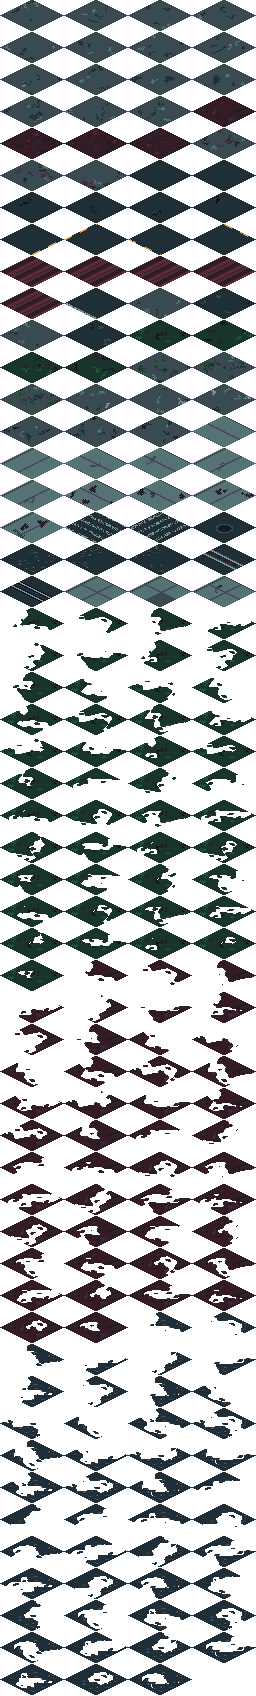
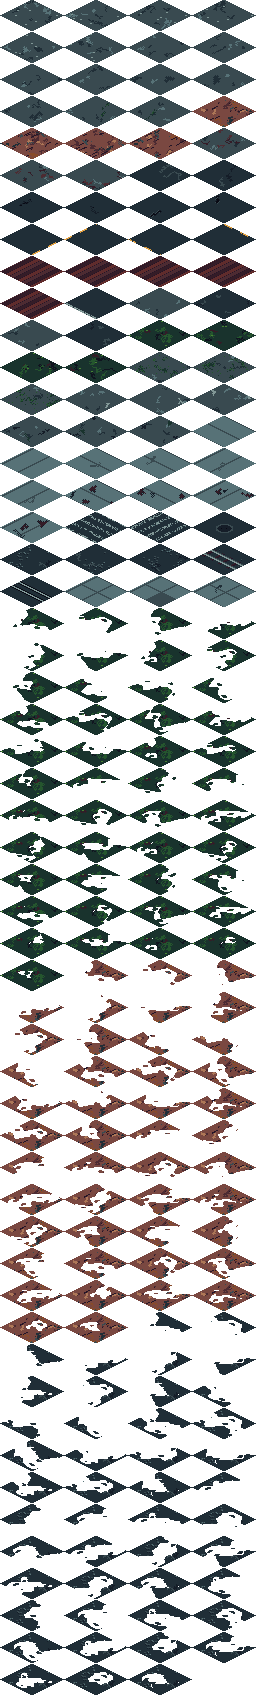
v0.6.58: the ground pass
User: "lets make make the ground look visually better, lets give it the
ground pass, make all of the dirt, grass, stone, roads, railroads, everything
on the ground. also the dirt looks more red than brown".

THE DIRT WAS BUILT ON THE RED RAMP. It based on 341c27 over 241527 - the
darkest values of Apollo's ORANGE and RED ramps - so however much of it you
laid down it came out wine, not earth. A colour only reads as brown when
GREEN leads BLUE, and both of those have blue above green. 7a4841 (122,72,65)
and ad7757 (173,119,87) do not. Darkening is then done by COVERAGE - more
shadow and more grey mud - because every Apollo brown below 7a4841 goes
blue-over-green and turns mauve again. Same "measure it, do not judge it"
lesson as the grey house in v0.6.54 that was painted in its own ground's
colours.

TONAL DRIFT ON EVERY SURFACE. Every floor was one flat base colour plus fine
per-pixel wear, so a large area read as a single value with dust on it - flat
at any distance, and no amount of extra speckle fixes that because speckle
averages back to the same tone. _tonal lays a few large low-contrast blotches
per tile instead, so across a field of tiles the ground drifts. Applied to
concrete, asphalt, forest floor, ballast and dirt. _aggregate adds small
stones as 2x1 pairs, never single pixels, so they read as aggregate in the
surface rather than noise on it.

Asphalt keeps NO speckle - smooth road surface is a standing user call. Its
[…]

diff --git a/tools/gen_art.py b/tools/gen_art.py
@@ -204,12 +204,51 @@ def _floor_base(c: Canvas, rng: random.Random, base, dark, lite,
     speckle(c, rng, region, [dark, lite], [p_dark, p_lite])
     return region
 
+
+def _tonal(c: Canvas, rng: random.Random, region: set, cols: list,
+           count: int = 2, lo: int = 14, hi: int = 30) -> None:
+    """LARGE, low-contrast blotches across a floor tile.
+
+    The ground pass's main move (user, 2026-08-05: "lets make make the ground
+    look visually better, lets give it the ground pass"). Every surface was
+    one flat base colour plus fine per-pixel wear, so a big area of concrete
+    or asphalt read as a single value with dust on it - flat at any distance,
+    and no amount of extra speckle fixes that, because speckle averages back
+    to the same tone.
+
+    These are patch-scale instead: a few blotches per tile, each a good
+    fraction of it, so ACROSS a field of tiles the ground has slow tonal
+    drift. Solid patches, which is what the no-dot-noise rule asks for.
+    """
+    if not region:
+        return
+    pts = sorted(region)
+    for _ in range(count):
+        col = cols[rng.randrange(len(cols))]
+        cx, cy = pts[rng.randrange(len(pts))]
+        for (x, y) in blob(rng, cx, cy, rng.randint(lo, hi), region):
+            c.set(x, y, col)
+
+
+def _aggregate(c: Canvas, rng: random.Random, region: set, col,
+               count: int = 5) -> None:
+    """Small stones in the mix - 2x1 pairs, never single pixels, so they read
+    as aggregate in the surface rather than as noise on it."""
+    pts = sorted(region)
+    for _ in range(count):
+        x, y = pts[rng.randrange(len(pts))]
+        if (x + 1, y) in region:
+            c.set(x, y, col)
+            c.set(x + 1, y, col)
+
 def make_floor_tile(kind: str, variant: int) -> Canvas:
     rng = random.Random(f"{SEED}:floor:{kind}:{variant}")
     c = Canvas(64, 32)
 
     if kind == "concrete":
-        _floor_base(c, rng, CONC_BASE, CONC_D1, CONC_L1, 0.032, 0.016)
+        region = _floor_base(c, rng, CONC_BASE, CONC_D1, CONC_L1, 0.032, 0.016)
+        _tonal(c, rng, region, [CONC_D1, CONC_L1], 2, 18, 40)
+        _aggregate(c, rng, region, CONC_L2, 6)
     elif kind == "crack":
         region = _floor_base(c, rng, CONC_BASE, CONC_D1, CONC_L1, 0.032, 0.016)
         x, y = 20 + rng.randrange(24), 8 + rng.randrange(16)
@@ -253,10 +292,26 @@ def make_floor_tile(kind: str, variant: int) -> Canvas:
         # packed soil with STRUCTURE, not dots: rut dashes worn along the
         # path, clod clusters, the odd stone (flat maroon read as a dead
         # red stripe once the old speckle went away)
-        region = _floor_base(c, rng, C("341c27"), C("241527"), C("4d2b32"),
-                             0.02, 0.02)
-        speckle(c, rng, region, [C("202e37")], [0.05])   # gray mud pulls the
-        # red out of the earth — long dirt strips read blood-red without it
+        # ON THE BROWN RAMP, not the red one (user, 2026-08-05: "the dirt
+        # looks more red than brown"). It was based on 341c27 over 241527 -
+        # those are the darkest values of Apollo's ORANGE and RED ramps, and
+        # mixing them gives wine, not earth. 4d2b32 / 7a4841 are the actual
+        # brown ramp. The grey mud stays: it desaturates the whole thing,
+        # without which long dirt strips still pull warm.
+        # PICK BY CHANNEL ORDER, not by eye. A colour only reads as brown when
+        # GREEN leads BLUE. Apollo's 4d2b32 is (77,43,50) and 341c27 is
+        # (52,28,39) - blue above green in both, which is why an earth built
+        # on them comes out mauve however much of it you lay down. 7a4841 is
+        # (122,72,65) and ad7757 is (173,119,87): green above blue, actual
+        # brown. This is the same "measure it, do not judge it" lesson as the
+        # grey house that matched its own ground.
+        # Darkened by COVERAGE, not by picking a darker base: every Apollo
+        # brown below 7a4841 goes blue-over-green and turns mauve again. More
+        # shadow and more grey mud drops the value while the hue stays earth.
+        region = _floor_base(c, rng, C("7a4841"), C("4d2b32"), C("ad7757"),
+                             0.20, 0.035)
+        speckle(c, rng, region, [C("202e37"), C("394a50")], [0.15, 0.06])
+        _tonal(c, rng, region, [C("4d2b32"), C("884b2b")], 3, 16, 34)
         for i in range(rng.randint(10, 14)):
             x = 6 + rng.randrange(52)
             y = 4 + rng.randrange(24)
@@ -302,6 +357,10 @@ def make_floor_tile(kind: str, variant: int) -> Canvas:
         # scattered red confetti across every wood (user: no red noise)
         region = _floor_base(c, rng, C("19332d"), C("10141f"), C("25562e"), 0.07, 0.05)
         speckle(c, rng, region, [C("341c27")], [0.018])
+        # shade under the canopy and the odd sunlit break, so a wood floor is
+        # not one flat green
+        _tonal(c, rng, region, [C("10141f"), C("25562e")], 3, 16, 34)
+        _aggregate(c, rng, region, C("468232"), 4)      # lit tufts
 
     elif kind == "grass_blend":
         # transition tile: concrete with grass CREEPING onto it in clumps —
@@ -413,8 +472,13 @@ def make_floor_tile(kind: str, variant: int) -> Canvas:
                 c.set(x, y, C("819796"))
 
     elif kind == "asphalt":
-        # SMOOTH road surface (user call) — damage lives in its own tiles
-        _floor_base(c, rng, CONC_D1, CONC_D2, CONC_BASE, 0.0, 0.0)
+        # SMOOTH road surface (user call) - damage lives in its own tiles, so
+        # there is deliberately NO speckle here. The blotches are patch-scale
+        # and low contrast: they read as old repairs and settled tar, which is
+        # a real road feature, and they give a long straight road some tonal
+        # drift without granulating it.
+        region = _floor_base(c, rng, CONC_D1, CONC_D2, CONC_BASE, 0.0, 0.0)
+        _tonal(c, rng, region, [CONC_D2, CONC_BASE], 2, 20, 44)
     elif kind == "asphalt_crack":
         region = _floor_base(c, rng, CONC_D1, CONC_D2, CONC_BASE, 0.0, 0.0)
         x, y = 16 + rng.randrange(30), 6 + rng.randrange(16)
@@ -480,6 +544,7 @@ def make_floor_tile(kind: str, variant: int) -> Canvas:
         # trainyard gravel bed: dark base with STONES — small 2-4px shapes
         # with their own shadow, clustered (structure, never dot noise)
         region = _floor_base(c, rng, C("202e37"), C("151d28"), C("394a50"), 0.0, 0.0)
+        _tonal(c, rng, region, [C("151d28"), C("394a50")], 2, 14, 30)
         for _ in range(rng.randint(6, 9)):
             cx_, cy_ = 6 + rng.randrange(52), 4 + rng.randrange(24)
             for s in range(rng.randint(3, 6)):

diff --git a/CHANGELOG.md b/CHANGELOG.md
@@ -3,6 +3,42 @@
 All notable changes to SPOILS are documented here. Versions follow a simple
 `0.minor.patch` scheme while the game is pre-release.
 
+## [0.6.58] - 2026-08-05 - the ground pass
+
+User: *"lets make make the ground look visually better, lets give it the
+ground pass, make all of the dirt, grass, stone, roads, railroads, everything
+on the ground. also the dirt looks more red than brown"*.
+
+### Fixed - the dirt was built on the RED ramp
+It based on `341c27` over `241527` - the darkest values of Apollo's ORANGE
+and RED ramps - so however much of it you laid down it came out wine, not
+earth. **A colour only reads as brown when GREEN leads BLUE**, and both of
+those have blue above green. `7a4841` (122,72,65) and `ad7757` (173,119,87)
+do not. Darkening is then done by COVERAGE - more shadow and more grey mud -
+because every Apollo brown below `7a4841` goes blue-over-green and turns
+mauve again.
+
+Same "measure it, do not judge it" lesson as the grey house in v0.6.54 that
+was painted in its own ground's colours.
+
+### Added - tonal drift on every surface
+Every floor was one flat base colour plus fine per-pixel wear, so a large
+area read as a single value with dust on it - flat at any distance, and no
+amount of extra speckle fixes that because speckle averages back to the same
+tone. `_tonal` lays a few large low-contrast blotches per tile instead, so
+across a field of tiles the ground drifts. Applied to concrete, asphalt,
+forest floor, ballast and dirt.
+
+`_aggregate` adds small stones as 2x1 pairs, never single pixels, so they
+read as aggregate in the surface rather than noise on it.
+
+**Asphalt keeps NO speckle** - smooth road surface is a standing user call.
+Its blotches are patch-scale only, reading as old repairs and settled tar,
+which gives a long straight road tonal drift without granulating it.
+
+### Verified
+`SMOKE PASS`, 240 fps, worst frame 4.47 ms, `DOORS` 16 on unchanged cells.
+
 ## [0.6.57] - 2026-08-05 - the blending reaches everywhere, and roads rot
 
 ### Fixed - whole areas were never blended at all

diff --git a/HANDOFF.md b/HANDOFF.md
@@ -268,6 +268,30 @@ joined to roads, and broken cars reading as broken. **UI and icons remain
 PARKED mid-way** - `make_ui_frames`/`make_ui_icons` exist in gen_art and are
 not wired.
 
+**Shipped: v0.6.58 - the ground pass.** *"lets give it the ground pass ...
+also the dirt looks more red than brown"*.
+- **The dirt was built on the RED ramp.** `341c27` over `241527` are the
+  darkest values of Apollo's ORANGE and RED ramps. **A colour reads as brown
+  only when GREEN leads BLUE** - both of those have blue above green, so the
+  earth came out wine however much of it there was. `7a4841`/`ad7757` lead
+  green. Darkening is by COVERAGE, because every Apollo brown darker than
+  `7a4841` flips blue-over-green and goes mauve again.
+- **`_tonal`: large low-contrast blotches on every surface.** Each floor was
+  one flat base plus per-pixel wear, which is flat at any distance - speckle
+  averages back to the same tone, so more of it never helps. Patch-scale
+  drift is what makes a field of tiles stop reading as one colour.
+- Asphalt keeps NO speckle (smooth roads is a standing call); its blotches
+  read as old repairs.
+
+**ON GEMINI'S ADVICE, which the user pasted:** most of it matches rules this
+project already has. **TWO ITEMS WOULD BREAK THE GAME and were declined, with
+the reason given to the user:** runtime tilt ("rotate cars 5-15 degrees") and
+runtime scale jitter ("+/-15%") both resample pixel art off its grid and
+shimmer under a moving camera - this project bakes `bake_lean()` and per
+instance variants at GENERATION time for exactly that reason. Curved/spline
+roads were also declined for now: roads are axis-aligned tile bands that
+sidewalks, crosswalks and lane-correct vehicles all key off.
+
 **Picked up at: the polish pass, ART half — three of six done.** Shipped this
 session: the title (v0.6.51), the map screen redo (v0.6.52), the layout
 revision (v0.6.53), terrain blending + house contrast (v0.6.54), the blend

diff --git a/CLAUDE.md b/CLAUDE.md
@@ -35,7 +35,7 @@ This file carries everything a fresh session needs that isn't in those two.
 
 <!-- CHECKED: --checkdocs parses the version out of the next line. Keep the
 	 form "vX.Y.Z shipped" or the check will fail loudly. -->
-**v0.6.57 shipped, 2026-08-05.** Milestone 1 (a walkable world) is DONE.
+**v0.6.58 shipped, 2026-08-05.** Milestone 1 (a walkable world) is DONE.
 Milestone 2 — guns, tunnels, the story opening — is designed and waiting
 on the user's explicit "go".
 

diff --git a/TASKS.md b/TASKS.md
@@ -5,7 +5,7 @@ one. **Read `CLAUDE.md` first** (project rules, systems map, verification
 workflow), then this file for what to actually build. `CHANGELOG.md`
 records what already shipped.
 
-**Current version: v0.6.57.** The release history was renumbered evenly on
+**Current version: v0.6.58.** The release history was renumbered evenly on
 2026-08-02 — read the versioning note in CLAUDE.md before quoting any old
 version number, because they were all remapped.
 

diff --git a/docs/sessions/2026-08-05.md b/docs/sessions/2026-08-05.md
@@ -71,3 +71,7 @@ theres still some lines on the grass, like i can tell it doesnt look natural
 
 just a random tile inside of the dirt, looks completely off, can you make sure its not like that anywhere else
 
+## 12:28:32 · session 7dcde8ec
+
+yes continue
+
